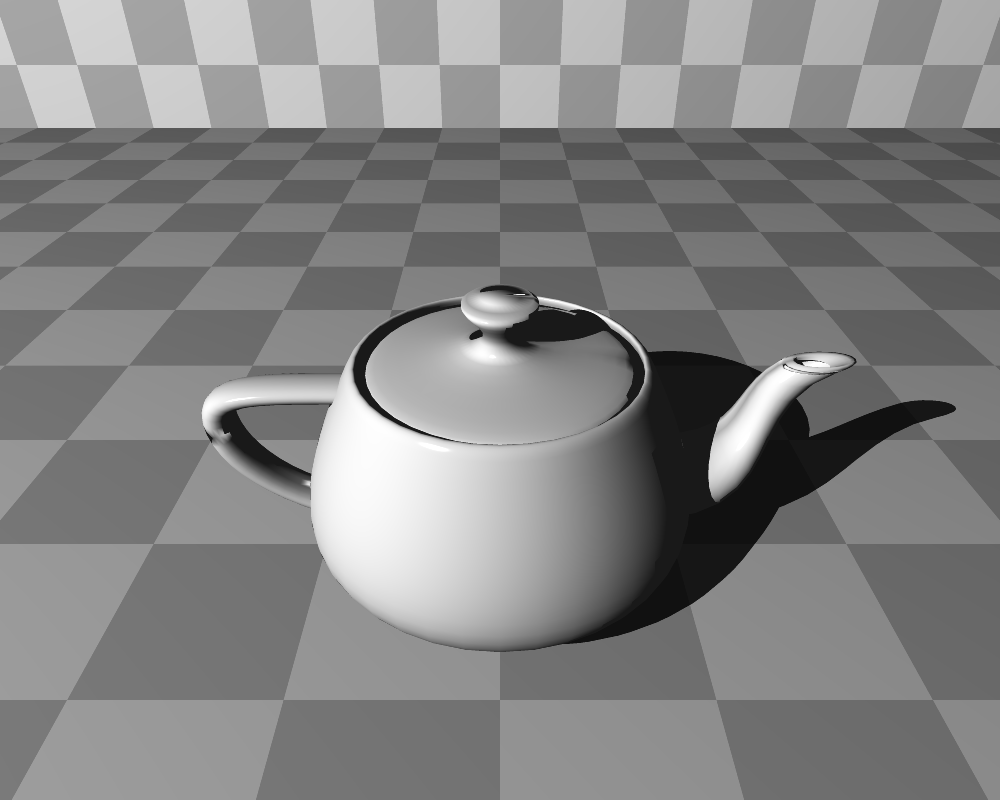
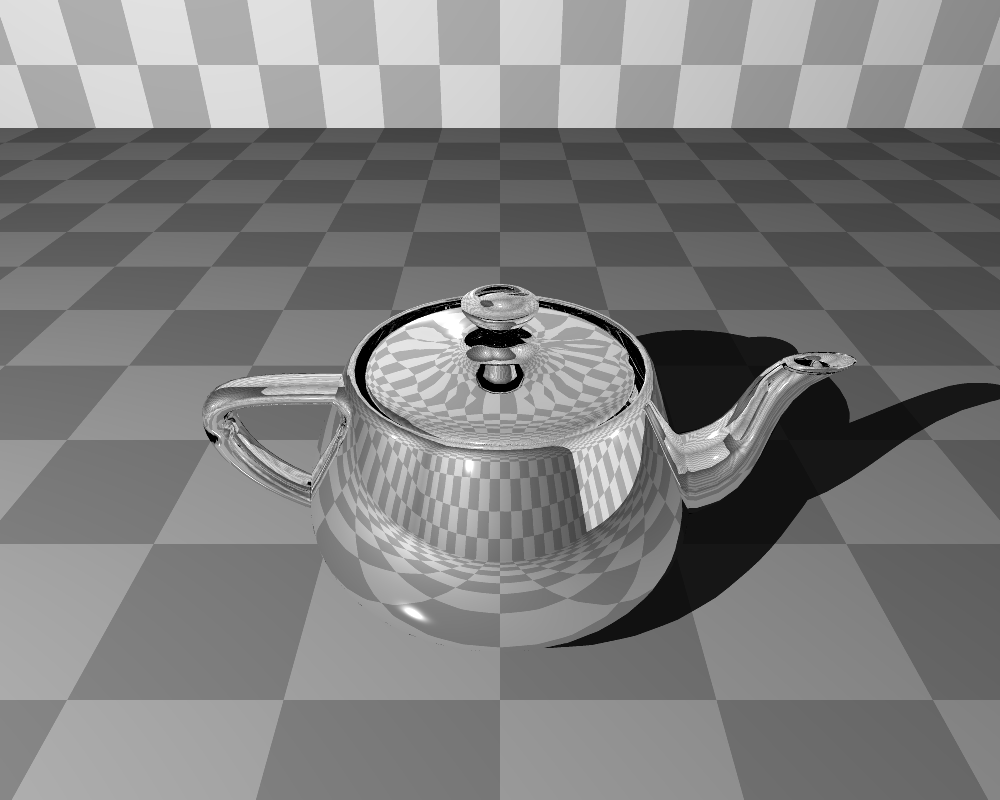
meshes

diff --git a/examples/obj_loading.rs b/examples/obj_loading.rs
@@ -1,7 +1,7 @@
 use std::f64::consts::PI;
 
 use glam::dvec3;
-use ray_tracer::{Camera, World, Color, transformations, lights::{Light, PointLight}, ObjLoader, shapes::{Shape, Plane}, Object, Material, pattern::{PatternObject, CheckerPattern, PlainPattern}, Pattern};
+use ray_tracer::{Camera, World, Color, transformations, lights::{Light, PointLight}, ObjLoader, shapes::{Shape, Cube}, Object, Material, pattern::{PatternObject, CheckerPattern, PlainPattern}, Pattern};
 
 fn main() {
     let camera = Camera::new(1000, 800, PI / 3.0)
@@ -15,7 +15,7 @@ fn main() {
         .with_antialiasing(3);
 
     let l1 = Light::PointLight(PointLight::new(
-        dvec3(-10.0, 10.0, -10.0), 
+        dvec3(-5.0, 5.0, -5.0), 
         Color::white()
     ));
 
@@ -24,24 +24,26 @@ fn main() {
     objects[0] = objects[0].clone()
     .with_scale(0.1, 0.1, 0.1)
     .with_rotation_x(-PI / 2.0)
-    .transform();
-    // .with_material(
-    //     Material::new()
-    //     .with_ambient(0.0)
-    //     .with_diffuse(0.0)
-    //     .with_specular(0.0)
-    //     .with_transparency(1.0)
-    //     .with_refractive_index(1.5)
-    //     .with_pattern(
-    //         PatternObject::new(
-    //             Pattern::Plain(
-    //                 PlainPattern::new(Color::black())
-    //             )
-    //         )
-    //     )
-    // );
+    .transform()
+    .with_material(
+        Material::new()
+        .with_ambient(0.0)
+        .with_diffuse(0.0)
+        .with_specular(0.0)
+        .with_reflective(1.0)
+        .with_pattern(
+            PatternObject::new(
+                Pattern::Plain(
+                    PlainPattern::new(Color::new(0.0, 0.0, 0.0))
+                )
+            )
+        )
+    );
 
-    let floor = Object::new(Shape::Plane(Plane::default()))
+    let room = Object::new(Shape::Cube(Cube::default()))
+    .with_scale(10.0, 10.0, 10.0)
+    .with_translation(0.0, 10.0, 0.0)
+    .transform()
     .with_material(
         Material::new()
         .with_pattern(
@@ -53,16 +55,12 @@ fn main() {
                     )
                 )
             )
+            .with_scale(0.1, 0.1, 0.1)
+            .transform()
         )
     );
 
-    let wall = floor.clone()
-    .with_rotation_x(PI / 2.0)
-    .with_translation(0.0, 0.0, 10.0)
-    .transform();
-
-    objects.push(floor);
-    objects.push(wall);
+    objects.push(room);
 
     println!("min: {}, max: {}", objects[0].bounds().min(), objects[0].bounds().max());
 

diff --git a/src/shapes/shape.rs b/src/shapes/shape.rs
@@ -1,7 +1,7 @@
 use glam::DVec3;
 
 use crate::{ray::Ray, intersection::Intersections, Object, bounds::Bounds};
-use super::{Sphere, test_shape::TestShape, Plane, Cube, Group, Triangle, SmoothTriangle};
+use super::{Sphere, test_shape::TestShape, Plane, Cube, Group, Triangle, SmoothTriangle, Mesh};
 
 #[derive(Debug, Clone, PartialEq)]
 pub enum Shape {
@@ -10,6 +10,7 @@ pub enum Shape {
     Cube(Cube),
     Triangle(Triangle),
     SmoothTriangle(SmoothTriangle),
+    Mesh(Mesh),
     Group(Group),
     TestShape(TestShape),
 }
@@ -37,6 +38,7 @@ impl Hittable for Shape {
             Shape::Cube(c) => c.intersect(ray, object),
             Shape::Triangle(t) => t.intersect(ray, object),
             Shape::SmoothTriangle(t) => t.intersect(ray, object),
+            Shape::Mesh(m) => m.intersect(ray, object),
             Shape::Group(g) => g.intersect(ray, object),
             Shape::TestShape(s) => s.intersect(ray, object),
         }
@@ -49,6 +51,7 @@ impl Hittable for Shape {
             Shape::Cube(c) => c.normal_at(point, u, v),
             Shape::Triangle(t) => t.normal_at(point, u, v),
             Shape::SmoothTriangle(t) => t.normal_at(point, u, v),
+            Shape::Mesh(m) => m.normal_at(point, u, v),
             Shape::Group(g) => g.normal_at(point, u, v),
             Shape::TestShape(s) => s.normal_at(point, u, v),
         }
@@ -61,6 +64,7 @@ impl Hittable for Shape {
             Shape::Cube(c) => c.bounds(),
             Shape::Triangle(t) => t.bounds(),
             Shape::SmoothTriangle(t) => t.bounds(),
+            Shape::Mesh(m) => m.bounds(),
             Shape::Group(g) => g.bounds(),
             Shape::TestShape(s) => s.bounds(),
         }

diff --git a/src/object.rs b/src/object.rs
@@ -29,7 +29,18 @@ impl Object {
     }
 
     pub fn with_material(mut self, material: Material) -> Self {
-        self.material = material;
+        self.material = material.clone();
+        self.shape = match self.shape {
+            Shape::Mesh(mut m) => {
+                let mut new_triangles = Vec::with_capacity(m.triangles().len());
+                for triangle in m.triangles().iter() {
+                    new_triangles.push(triangle.clone().with_material(material.clone()));
+                }
+                m = m.with_triangles(new_triangles);
+                Shape::Mesh(m)
+            }
+            _ => { self.shape }
+        };
         self
     }
 
@@ -141,6 +152,12 @@ impl Transformable for Object {
         match &mut self.shape {
             Shape::Group(g) => {
                 for object in g.objects_mut() {
+                    object.apply_transform(transform.clone());
+                }
+                self.set_transform(Transform::identity());
+            },
+            Shape::Mesh(m) => {
+                for object in m.triangles_mut() {
                     object.apply_transform(transform.clone());
                 }
                 self.set_transform(Transform::identity());

diff --git a/src/shapes/mesh.rs b/src/shapes/mesh.rs
@@ -1,0 +1,47 @@
+use glam::DVec3;
+
+use crate::{ray::Ray, Object, intersection::Intersections, bounds::Bounds};
+use super::{shape::Hittable, Group};
+
+#[derive(Clone, Debug, PartialEq, Default)]
+pub struct Mesh {
+    triangle_group: Group,
+}
+
+impl Hittable for Mesh {
+    fn intersect<'a>(&'a self, ray: &Ray, this: &'a Object) -> Intersections<'a> {
+        self.triangle_group.intersect(ray, this)
+    }
+
+    fn normal_at(&self, _: DVec3, _: f64, _: f64) -> DVec3 {
+        DVec3::default()
+    }
+
+    fn bounds(&self) -> Bounds {
+        self.triangle_group.bounds()
+    }
+}
+
+impl Mesh {
+    pub fn new() -> Self {
+        Self::default()
+    }
+
+    pub fn with_triangles(mut self, triangles: Vec<Object>) -> Self {
+        self.triangle_group = Group::new().with_objects(triangles);
+        self
+    }
+
+    pub fn triangles(&mut self) -> &Vec<Object> {
+        self.triangle_group.objects()
+    }
+
+    pub fn triangles_mut(&mut self) -> &mut Vec<Object> {
+        self.triangle_group.objects_mut()
+    }
+}
+
+#[cfg(test)]
+mod tests {
+
+}

diff --git a/src/obj.rs b/src/obj.rs
@@ -2,7 +2,7 @@ use std::{path::Path, fmt::Debug};
 
 use glam::dvec3;
 
-use crate::{shapes::{Group, Triangle, Shape, SmoothTriangle}, Object};
+use crate::{shapes::{Triangle, Shape, SmoothTriangle, Mesh}, Object};
 
 pub struct ObjLoader {
     objects: Vec<Object>,
@@ -96,9 +96,9 @@ impl ObjLoader {
 
             objects.push(
                 Object::new(
-                    Shape::Group(
-                        Group::default()
-                        .with_objects(triangles)
+                    Shape::Mesh(
+                        Mesh::default()
+                        .with_triangles(triangles)
                     )
                 )
             );

diff --git a/src/shapes/group.rs b/src/shapes/group.rs
@@ -3,7 +3,7 @@ use glam::DVec3;
 use crate::{ray::Ray, Object, intersection::Intersections, bounds::Bounds};
 use super::shape::Hittable;
 
-#[derive(Clone, Debug, PartialEq)]
+#[derive(Clone, Debug, PartialEq, Default)]
 pub struct Group {
     objects: Vec<Object>,
 }
@@ -29,14 +29,6 @@ impl Hittable for Group {
             .fold(Bounds::default(), |bounds, object| {
                 bounds.expand(object.bounds())
             })
-    }
-}
-
-impl Default for Group {
-    fn default() -> Self {
-        Self {
-            objects: Vec::default()
-        }
     }
 }
 

diff --git a/src/material.rs b/src/material.rs
@@ -134,7 +134,6 @@ impl Material {
     pub fn lighting(&self, object: &Object, light: &Light, point: DVec3, eyev: DVec3, normal: DVec3, intensity: f64) -> Color {
         let effective_color = self.pattern.color_at_object(object, point) * light.intensity();
         let ambient = effective_color * self.ambient;
-
         let mut diffuse = Color::black();
         let mut specular = Color::black();
 

diff --git a/README.md b/README.md
@@ -45,6 +45,9 @@ Here is the book's cover image, rendered with the ray tracer.
 ### Refractions
 ![Alt text](examples/refractions.png?raw=true "Refractions")
 
+### Triangular meshes
+![Alt text](examples/obj_loading.png?raw=true "obj-loading")
+
 ### From the book
 ![Alt text](examples/yaml_scenes/reflect-refract.png?raw=true "reflect-refract")
 
